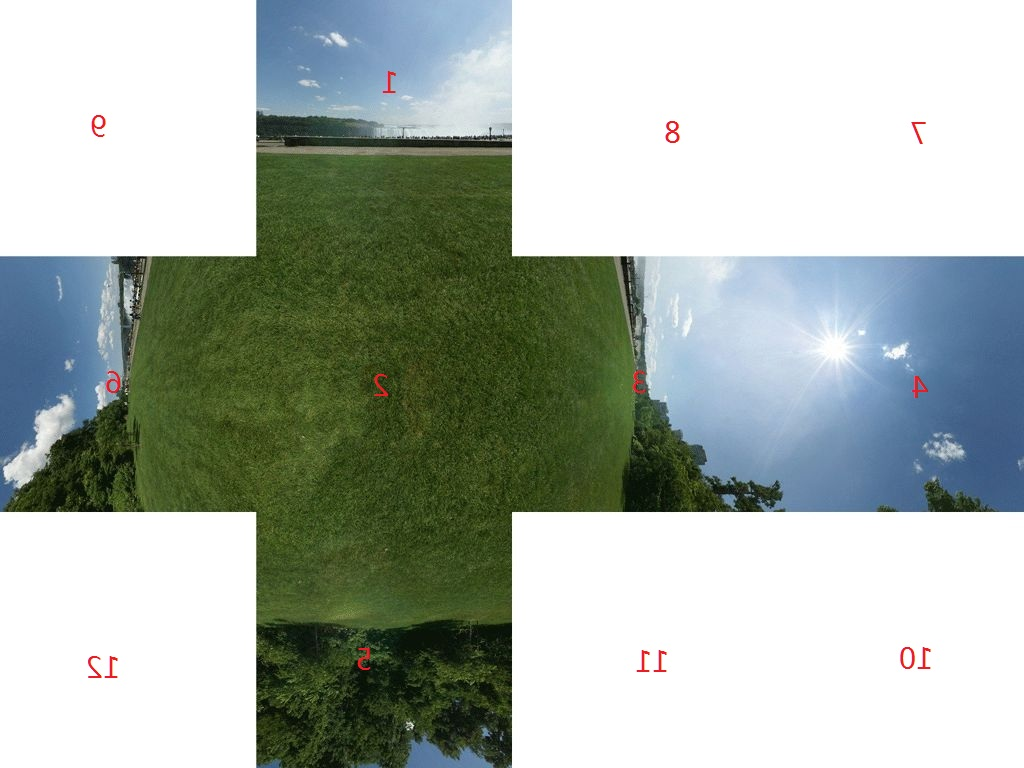
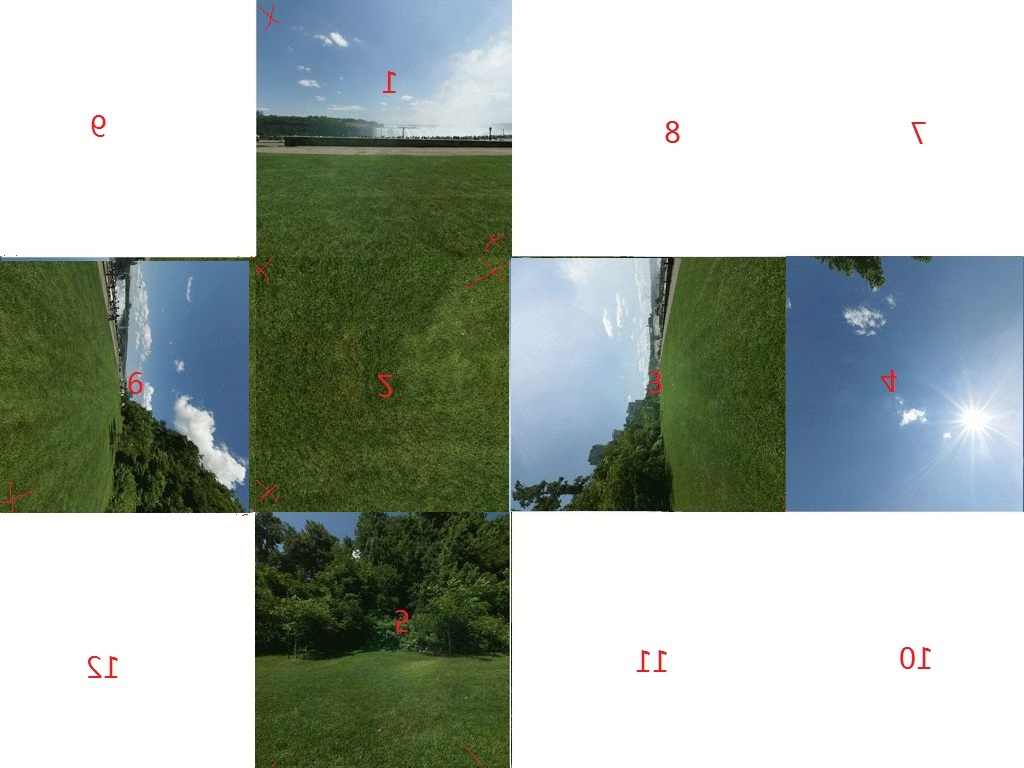
添加反向法线物体

diff --git a/Engine_3D/flatform/Drawable.cpp b/Engine_3D/flatform/Drawable.cpp
@@ -171,7 +171,7 @@ VOID Initialize()
 					.addVert(x_2, r_2 * sin(j * p_2), -r_2 * cos(j * p_2), -1);
 			}
 			obj.addVert(x_1, 0, -r_1).addVert(x_2, 0, -r_2, -1).setCenter(0, 0, 0).scale(10, 10, 10).move(x, y, z).rotate(0, 0, 0)
-				.setColor(GREEN).setLineColor(RED).setTexture(tman, t11, 4);
+				.setColor(GREEN).setLineColor(RED).setTexture(tman, t10, 2);
 			cur_op = &obj;
 		}
 		man.endGroup();
@@ -184,7 +184,10 @@ VOID Initialize()
 		}
 	}
 
-	return;
+	man.addObject(-1).addVert(-10, -10, 10).addVert(10, -10, 10).addVert(-10, 10, 10).addVert(10, 10, 10, -1)
+		.addVert(10, 10, -10).addVert(10, -10, 10, -1).addVert(10, -10, -10).addVert(-10, -10, 10, -1).addVert(-10, -10, -10)
+		.addVert(-10, 10, 10, -1).addVert(-10, 10, -10).addVert(10, 10, -10, -1).addVert(-10, -10, -10).addVert(10, -10, -10, -1)
+		.scale(5, 5, 5).move(-15, 0, -50).setColor(RED).setLineColor(BLUE).setTexture(tman, t11, 4);
 
 	c = 50;
 	p_1 = PI / ((EFTYPE)c); p_2 = 2 * PI / ((EFTYPE)c);

diff --git a/Engine_3D/math3d/Object3D.h b/Engine_3D/math3d/Object3D.h
@@ -219,17 +219,16 @@ public:
 	//0: triangle strip
 	//1: triangle
 	int vertex_type;
+
+	int anti;
 	//add vertex to object
 	Object3D& addVert(EFTYPE x, EFTYPE y, EFTYPE z, int anti_n) {
 		VObj * v = new VObj(x, y, z);
 
+		int _anti = this->anti;
+		this->anti *= anti_n;
 		this->addVert(v);
-
-		//force normal vector to be negative
-		//so that this point is not in backface
-		if (anti_n < 0) {
-			v->n.negative();
-		}
+		this->anti = _anti;
 
 		return *this;
 	}
@@ -304,6 +303,12 @@ public:
 		}
 
 		this->verts.insertLink(v);
+
+		//force normal vector to be negative
+		//so that this point is not in backface
+		if (this->anti < 0) {
+			v->n.negative();
+		}
 
 		return *this;
 	}

diff --git a/Engine_3D/math3d/Manager3D.h b/Engine_3D/math3d/Manager3D.h
@@ -252,7 +252,7 @@ public:
 		return *this;
 	}
 
-	Object3D& addObject() {
+	Object3D& addObject(INT anti = 1) {
 		Obj3D * obj = new Obj3D();
 
 		obj->cam = this->cams.link;
@@ -261,6 +261,8 @@ public:
 		if (this->group) {
 			this->group->objs.insertLink(obj);
 		}
+
+		((Object3D *)obj)->anti = anti;
 
 		return *((Object3D *)obj);
 	}
@@ -276,6 +278,7 @@ public:
 		if (this->group) {
 			this->group->objs.insertLink(obj);
 		}
+		((Object3D *)obj)->anti = 1;
 
 		return *((Object3D *)obj);
 
@@ -293,6 +296,7 @@ public:
 		if (this->group) {
 			this->group->objs.insertLink(obj);
 		}
+		((Object3D *)obj)->anti = 1;
 
 		return *((Object3D *)obj);
 
